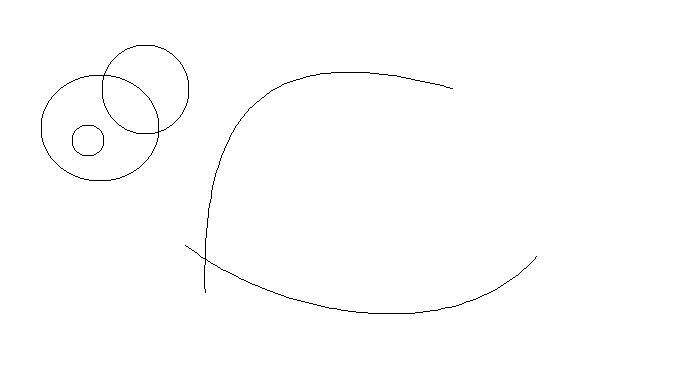
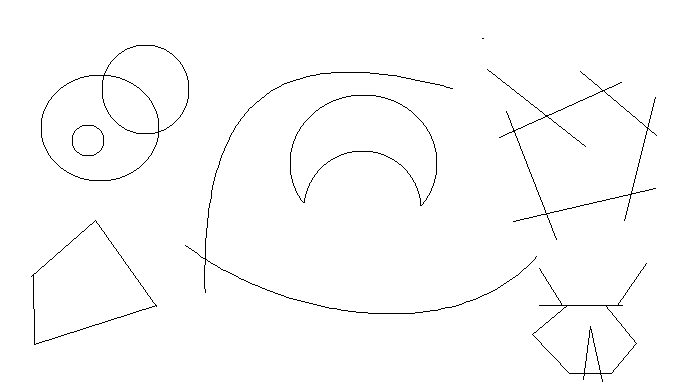
Complete task 2

diff --git a/src/main/kotlin/lab3/Task2.kt b/src/main/kotlin/lab3/Task2.kt
@@ -1,16 +1,24 @@
 package lab3
 
+import javafx.geometry.Orientation
 import javafx.scene.Group
 import javafx.scene.Scene
 import javafx.scene.canvas.Canvas
-import javafx.scene.canvas.GraphicsContext
+import javafx.scene.control.Button
 import javafx.scene.image.Image
 import javafx.scene.image.PixelReader
+import javafx.scene.layout.FlowPane
 import javafx.scene.paint.Color
 import javafx.stage.Stage
 import lab2.SceneWrapper
 import java.io.FileInputStream
 import java.util.*
+
+class DirPoint(val x: Int, val y: Int, val dir: Int) {
+    fun same(other: DirPoint): Boolean {
+        return x == other.x && y == other.y && dir == other.dir
+    }
+}
 
 class Task2(override val primaryStage: Stage): SceneWrapper(primaryStage, "Task 2") {
     private var mainCanvas = Canvas()
@@ -19,7 +27,7 @@ class Task2(override val primaryStage: Stage): SceneWrapper(primaryStage, "Task 
     private var height = 0
 
     init {
-        val root = Group()
+        val root = FlowPane(Orientation.HORIZONTAL, 0.0, 30.0)
 
         val image = Image(FileInputStream("assets/lines.png"))
         width = image.width.toInt()
@@ -30,7 +38,14 @@ class Task2(override val primaryStage: Stage): SceneWrapper(primaryStage, "Task 
         mainCtx.drawImage(image, 0.0, 0.0, image.width, image.height)
         root.children.add(mainCanvas)
 
+        val clearButton = Button("Clear")
+        root.children.add(clearButton)
+
         scene = Scene(root)
+
+        clearButton.setOnMouseClicked {
+            mainCtx.drawImage(image, 0.0, 0.0, image.width, image.height)
+        }
 
         mainCanvas.setOnMouseClicked {
             val startPoint = Point(it.sceneX.toInt(), it.sceneY.toInt())
@@ -41,53 +56,73 @@ class Task2(override val primaryStage: Stage): SceneWrapper(primaryStage, "Task 
     private fun highlightBorder(startPoint: Point, image: Image) {
         val pixelWriter = mainCtx.pixelWriter
 
-        val firstPixel = getFirstPixel(startPoint, image)
-        if (firstPixel.x == -1)
-            return
+        val firstPoint = getFirstPoint(startPoint, image) ?: return
 
+        val path = startPath(firstPoint, image)
+        for (point in path)
+            pixelWriter.setColor(point.x, point.y, Color.RED)
     }
 
-    private fun getFirstPixel(startPoint: Point, image: Image): Point {
+    private fun getFirstPoint(startPoint: Point, image: Image): DirPoint? {
         val pixelReader = image.pixelReader
+        // Going down
         for (y in (startPoint.y until height)) {
-            val pixel = pixelReader.getArgb(startPoint.x, y)
-            val test = pixel.toString()
+            val color = pixelReader.getColor(startPoint.x, y)
 
-            if (pixel.toLong() == 0xff000000) // If pixel is black
-                return Point(startPoint.x, startPoint.y)
+            if (color == Color.BLACK) // If pixel is black
+                return DirPoint(startPoint.x, y, 6)
         }
-        return Point(-1, -1)
+        return null
     }
 
-    private fun startPath(firstPoint: Point, image: Image): Vector<Point> {
-        var result = Vector<Point>()
+    private fun startPath(firstPoint: DirPoint, image: Image): Vector<DirPoint> {
+        val result = Vector<DirPoint>()
+        val pixelReader = image.pixelReader
 
-        var pixelReader = image.pixelReader
+        result.add(firstPoint)
+        val beginPoint = nextPoint(firstPoint, pixelReader) ?: return result
+        result.add(beginPoint)
 
-        var currentPoint = firstPoint
-        var dir = 4 // Going left
-
-        for (i in (0 until 8)) {
-            val point = nextPoint(currentPoint, dir)
-            val color = pixelReader.getArgb(point.x, point.y).toLong()
-            if (color == 0xff000000) {
-                dir -= 2
-                if (dir < 0)
-                    dir += 8
-                currentPoint = point
-            }
-            if (++dir == 8)
-                dir = 0
-        }
+        var currentPoint = beginPoint
 
         while (true) {
-            break
+            currentPoint = nextPoint(currentPoint, pixelReader) ?: return result
+
+            if (currentPoint.same(beginPoint))
+                break
+
+            result.add(currentPoint)
         }
 
         return result
     }
 
-    private fun nextPoint(currentPoint: Point, dir: Int): Point {
+    private fun nextPoint(currentPoint: DirPoint, pixelReader: PixelReader): DirPoint? {
+        var dir = currentPoint.dir - 2
+        dir = normalizeDir(dir)
+
+        for (i in (0 until 8)) {
+            val point = pointInDir(currentPoint, dir)
+            val color = pixelReader.getColor(point.x, point.y)
+
+            if (color == Color.BLACK) {
+                return point
+            }
+            dir += 1
+            dir = normalizeDir(dir)
+        }
+        return null
+    }
+
+    private fun normalizeDir(dir: Int): Int {
+        if (dir < 0)
+            return dir + 8
+        if (dir >= 8)
+            return dir - 8
+        return dir
+    }
+
+    private fun pointInDir(currentPoint: DirPoint, dir: Int): DirPoint {
         /*  3 2 1
             4 X 0
             5 6 7 */
@@ -95,14 +130,14 @@ class Task2(override val primaryStage: Stage): SceneWrapper(primaryStage, "Task 
         val x = currentPoint.x
         val y = currentPoint.y
         return when(dir) {
-            0 -> Point(x + 1, y)
-            1 -> Point(x + 1, y - 1)
-            2 -> Point(x,     y - 1)
-            3 -> Point(x - 1, y - 1)
-            4 -> Point(x - 1, y)
-            5 -> Point(x - 1, y + 1)
-            6 -> Point(x,     y + 1)
-            7 -> Point(x + 1, y + 1)
+            0 -> DirPoint(x + 1, y, dir)
+            1 -> DirPoint(x + 1, y - 1, dir)
+            2 -> DirPoint(x,     y - 1, dir)
+            3 -> DirPoint(x - 1, y - 1, dir)
+            4 -> DirPoint(x - 1, y, dir)
+            5 -> DirPoint(x - 1, y + 1, dir)
+            6 -> DirPoint(x,     y + 1, dir)
+            7 -> DirPoint(x + 1, y + 1, dir)
             else -> throw Exception("Invalid direction")
         }
     }

diff --git a/src/main/kotlin/lab3/Task3.kt b/src/main/kotlin/lab3/Task3.kt
@@ -12,7 +12,11 @@ import lab2.SceneWrapper
 import java.util.*
 import kotlin.math.abs
 
-class Point(val x: Int, val y: Int, val color: Color = Color.BLACK)
+class Point(val x: Int, val y: Int, val color: Color = Color.BLACK) {
+    fun same(other: Point): Boolean {
+        return x == other.x && y == other.y
+    }
+}
 
 class Task3(override val primaryStage: Stage) : SceneWrapper(primaryStage, "Task 3") {
     init {
